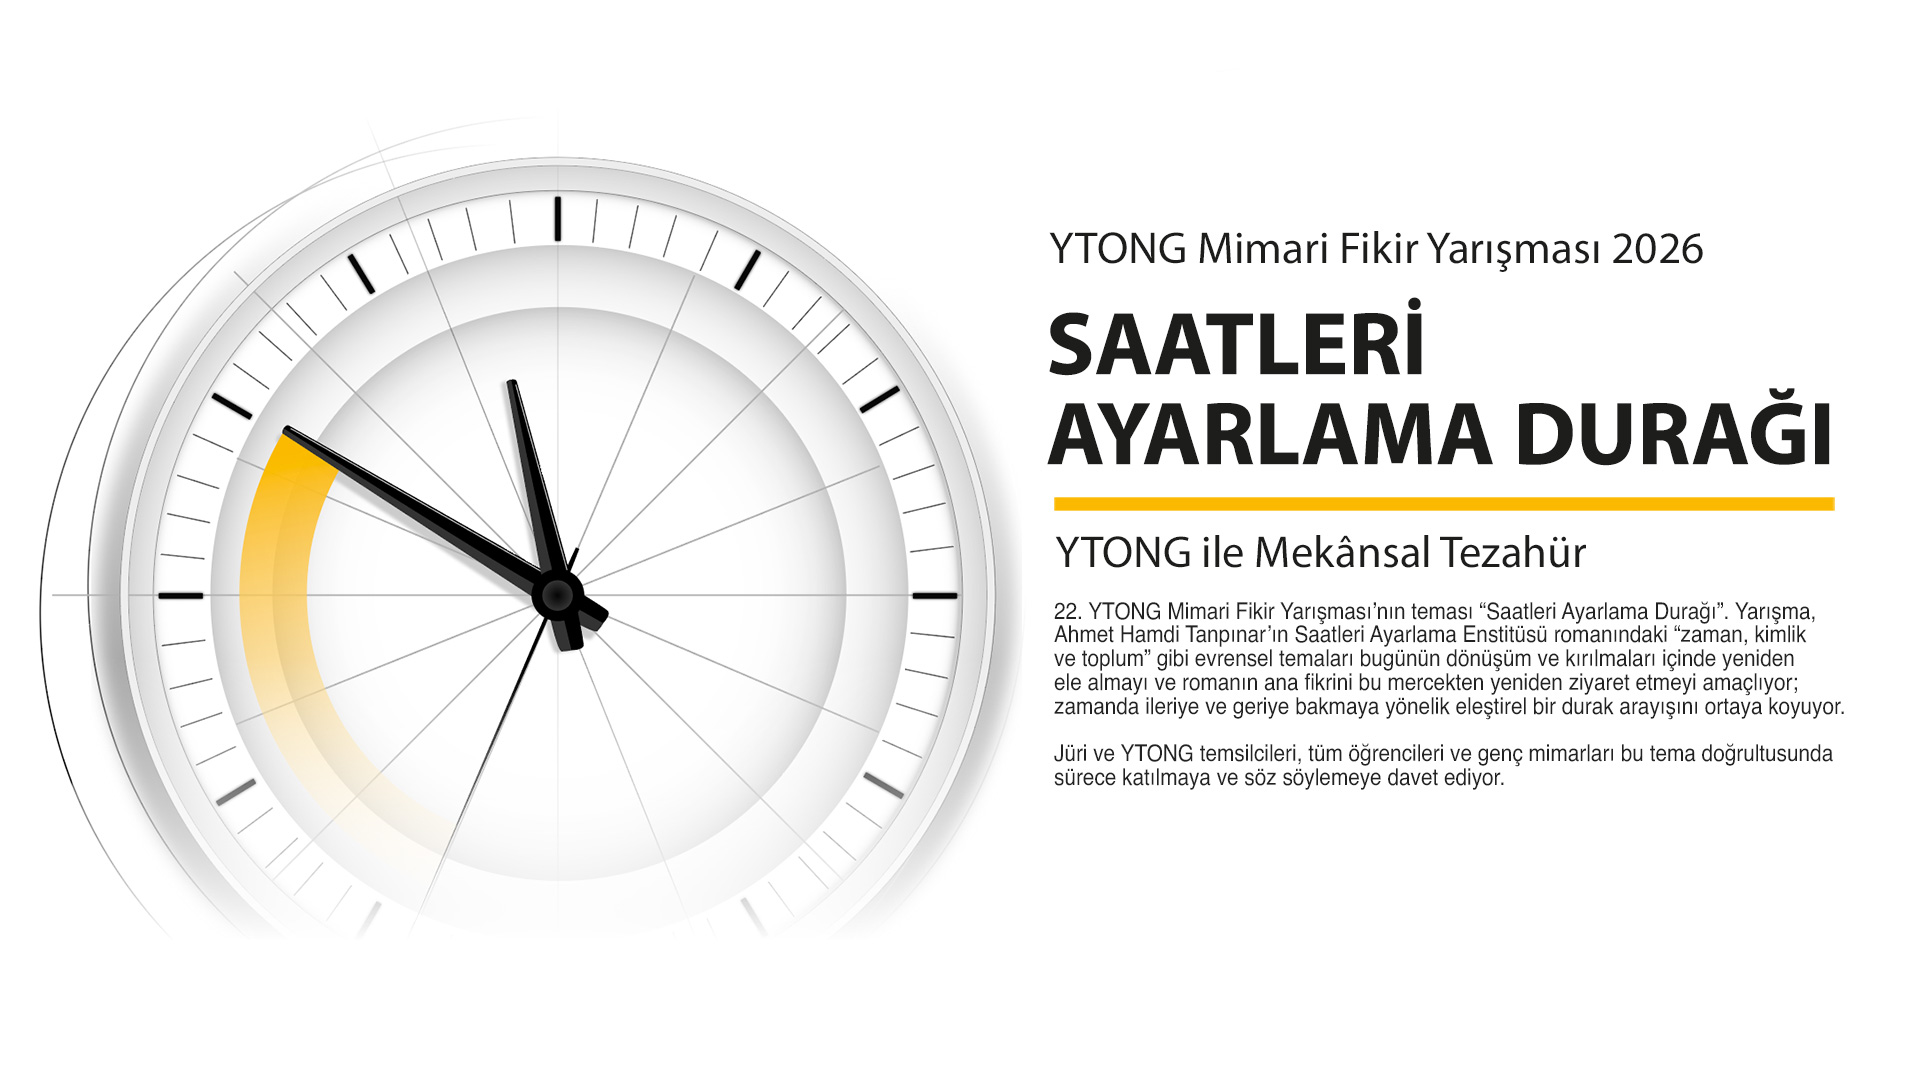
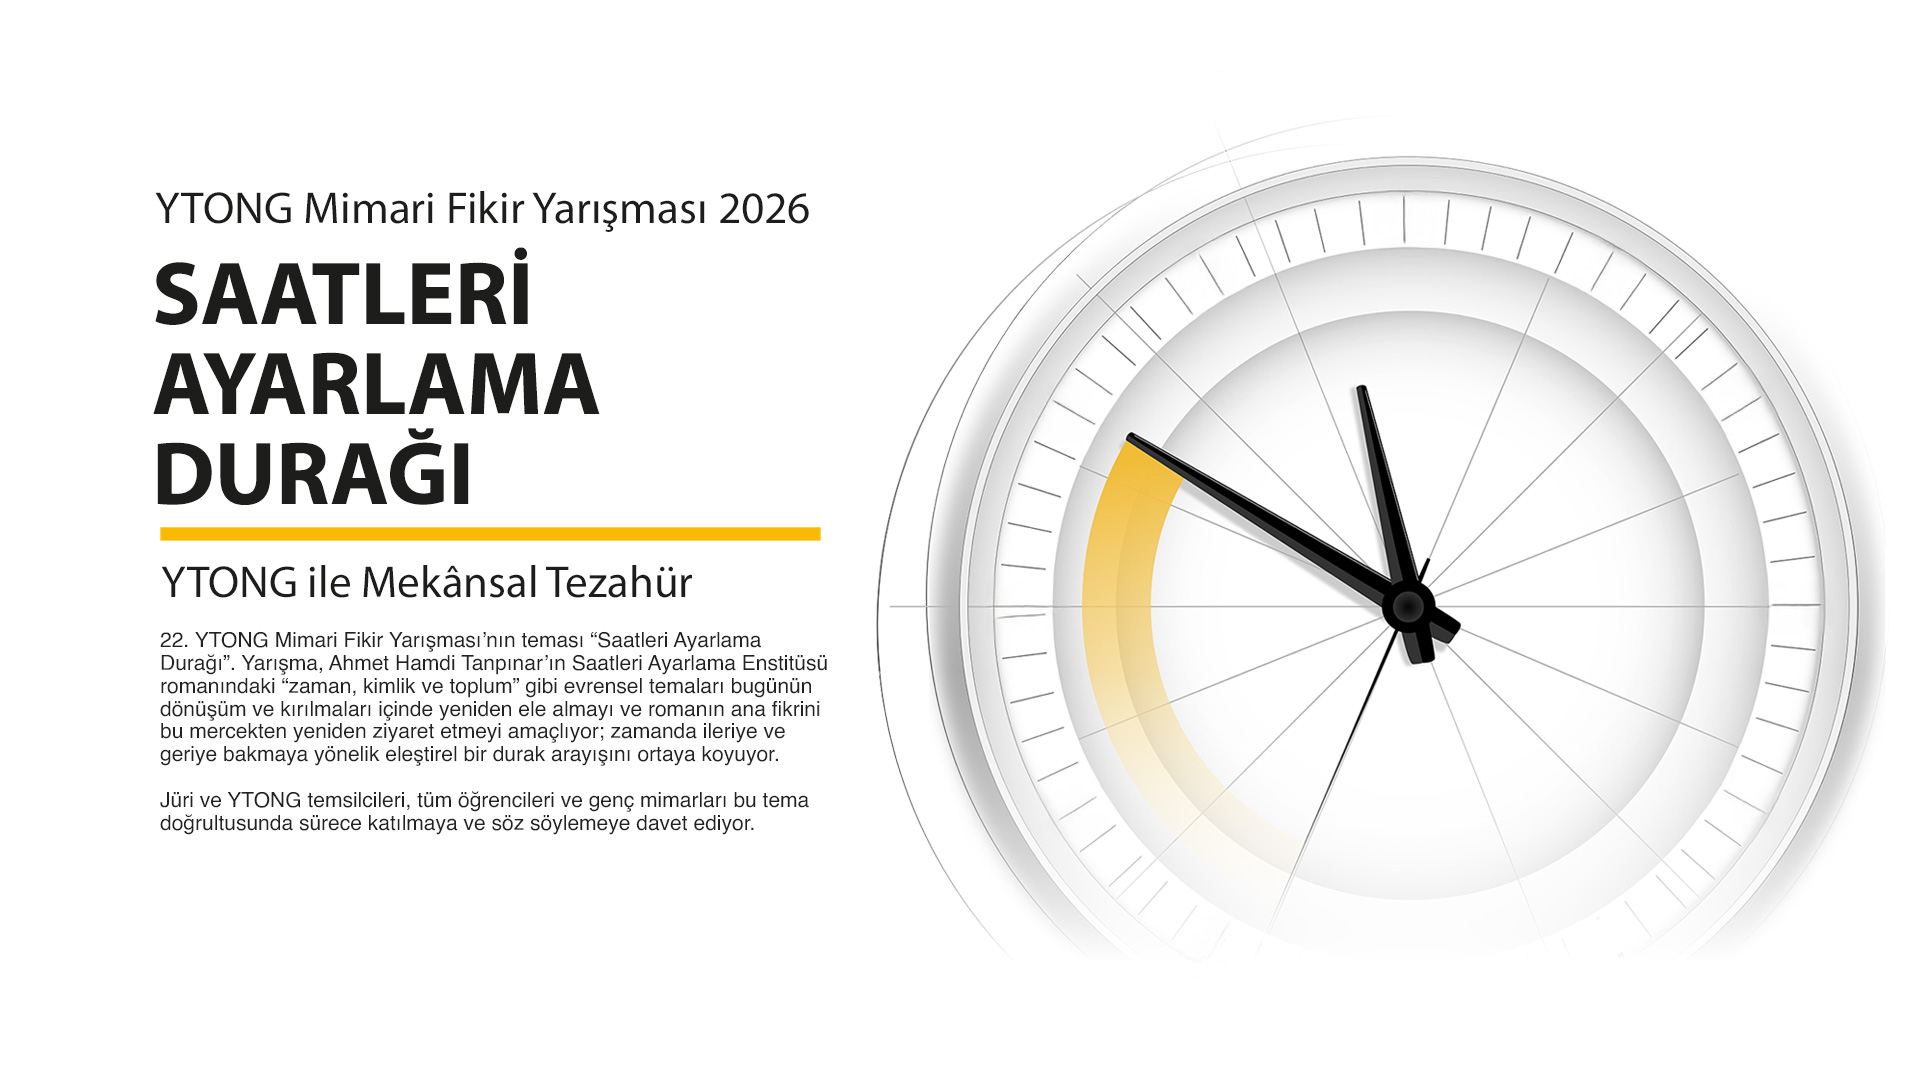
poster güncellendi

Changed region(s): [[0.0312, 0.1528, 1.0, 0.8556]]

diff --git a/ytongakademicom/wwwroot/index.html b/ytongakademicom/wwwroot/index.html
@@ -140,7 +140,7 @@
 
 		</header><!-- #header end -->
 		
-		<section id="slider" class="slider-element slider-parallax full-screen with-header force-full-screen clearfix" style="background: url('images/slide-yarisma-r1-2026.jpg') left center no-repeat; background-size: cover;" data-height-xs="280">
+		<section id="slider" class="slider-element slider-parallax full-screen with-header force-full-screen clearfix" style="background: url('images/slide-yarisma-r4-2026.jpg') left center no-repeat; background-size: cover;" data-height-xs="280">
 			
 			<!--
 			<div class="container-fluid clearfix">
@@ -172,16 +172,21 @@
 			</div>
 			-->
 			
-			<div class="container-fluid clearfix" style="top: 32.5%;"> <!--mobil versiyonda görünmez-->
-				<div class="vertical-middle left bottommargin d-none d-sm-block" style="margin-left: 8%;">
+			<div class="container-fluid clearfix d-none d-lg-block" style="top: 32.5%;"> <!--sadece genis desktop versiyonda görünür-->
+				<div class="vertical-middle left bottommargin" style="margin-left: 8%;">
 					<a href="https://basvuru.ytongakademi.com/" target="_blank" style="margin-top: 33%; background-color: #fbb900;" class="button button-border button-rounded button-fill fill-from-top button-dark button-large"><span>YARIŞMAYA BAŞVURMAK İÇİN TIKLAYIN</span></a>
-				</div>
-
-				<div class="vertical-middle right d-sm-none"> <!--mobil versiyonda görünmesi için-->
-					<a href="https://basvuru.ytongakademi.com/" target="_blank" class="button button-border button-rounded button-fill fill-from-top button-dark button-small" style="right: 18%; margin-top: 30px;"><span>YARIŞMAYA BAŞVURMAK İÇİN TIKLAYIN</span></a>
 				</div>
 			</div>
 		</section>
+
+		<!-- Tablet ve mobil buton: slider disinda, normal akista -->
+		<div class="d-none d-sm-block d-lg-none" style="text-align: center; padding: 24px 20px 10px; background: #fff;">
+			<a href="https://basvuru.ytongakademi.com/" target="_blank" class="button button-border button-rounded button-fill fill-from-top button-dark button-large" style="background-color: #fbb900; display: inline-block; margin: 0;"><span>YARIŞMAYA BAŞVURMAK İÇİN TIKLAYIN</span></a>
+		</div>
+
+		<div class="d-sm-none" style="text-align: center; padding: 20px 15px 10px; background: #fff;">
+			<a href="https://basvuru.ytongakademi.com/" target="_blank" class="button button-border button-rounded button-fill fill-from-top button-dark button-small" style="background-color: #fbb900; display: inline-block; margin: 0;"><span>YARIŞMAYA BAŞVURMAK İÇİN TIKLAYIN</span></a>
+		</div>
 
 		<div class="clear"></div>
 

diff --git a/ytongakademicom/wwwroot/oduller.html b/ytongakademicom/wwwroot/oduller.html
@@ -144,9 +144,9 @@
 
 			<div class="content-wrap">
 			
-			<div class="section parallax nomargin notopborder light" style="background-image: url('images/slide-oduller-r1.jpg'); padding: 100px 0;" data-bottom-top="background-position:0px 300px;" data-top-bottom="background-position:0px -300px;">
+			<div class="section parallax nomargin notopborder light" style="background-image: url('images/slide-oduller-r3.jpg'); left center no-repeat; background-size: cover; padding: 100px 0;" data-bottom-top="background-position:0px 300px;" data-top-bottom="background-position:0px -300px;">
 					
-					<div class="container clearfix" style="left: 10%;">
+					<div class="container clearfix">
 						<div class="emphasis-title left">
 							<h2 style="font-size: 52px;">ÖDÜLLER</h2>
 						</div>
